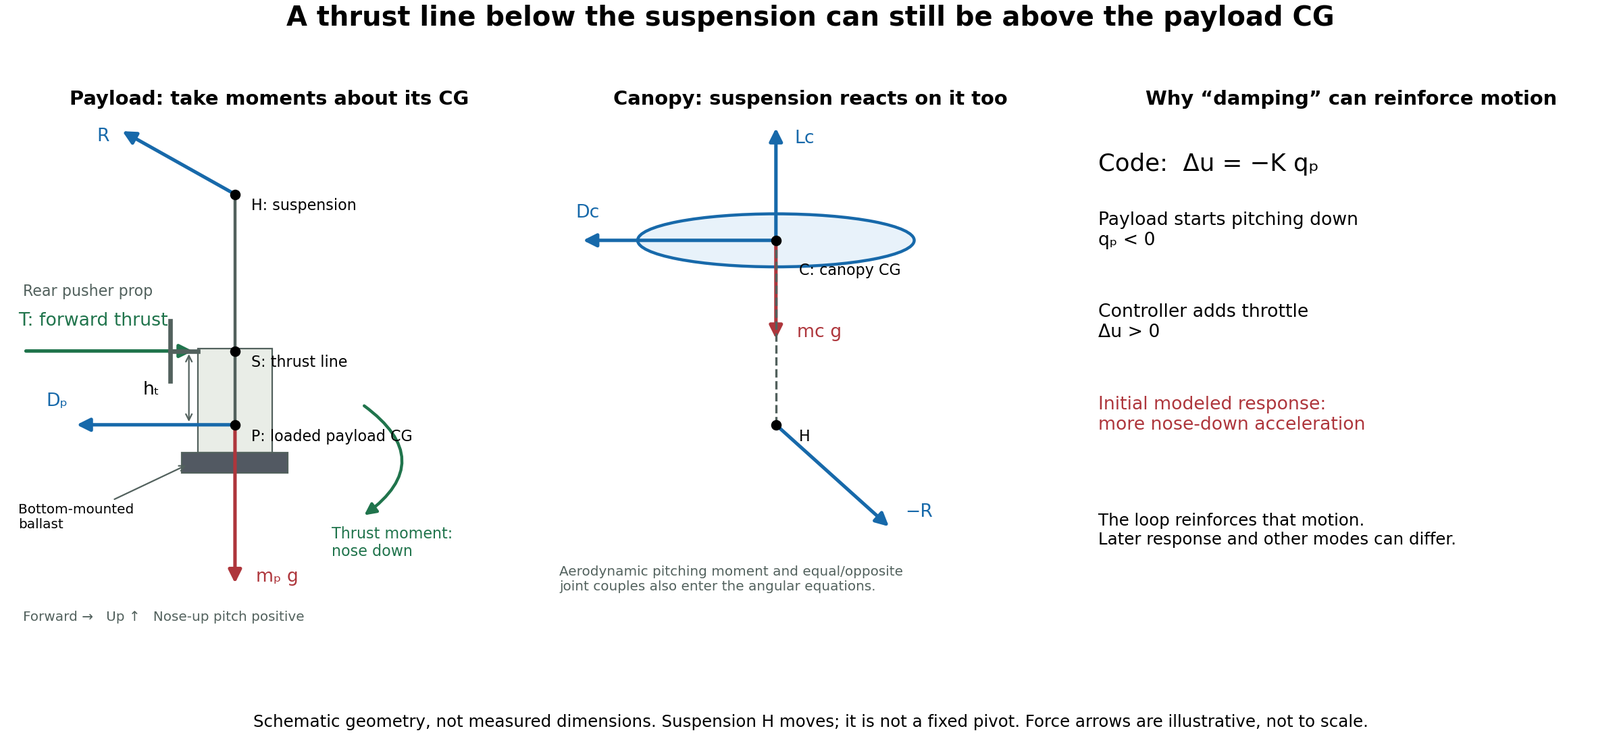
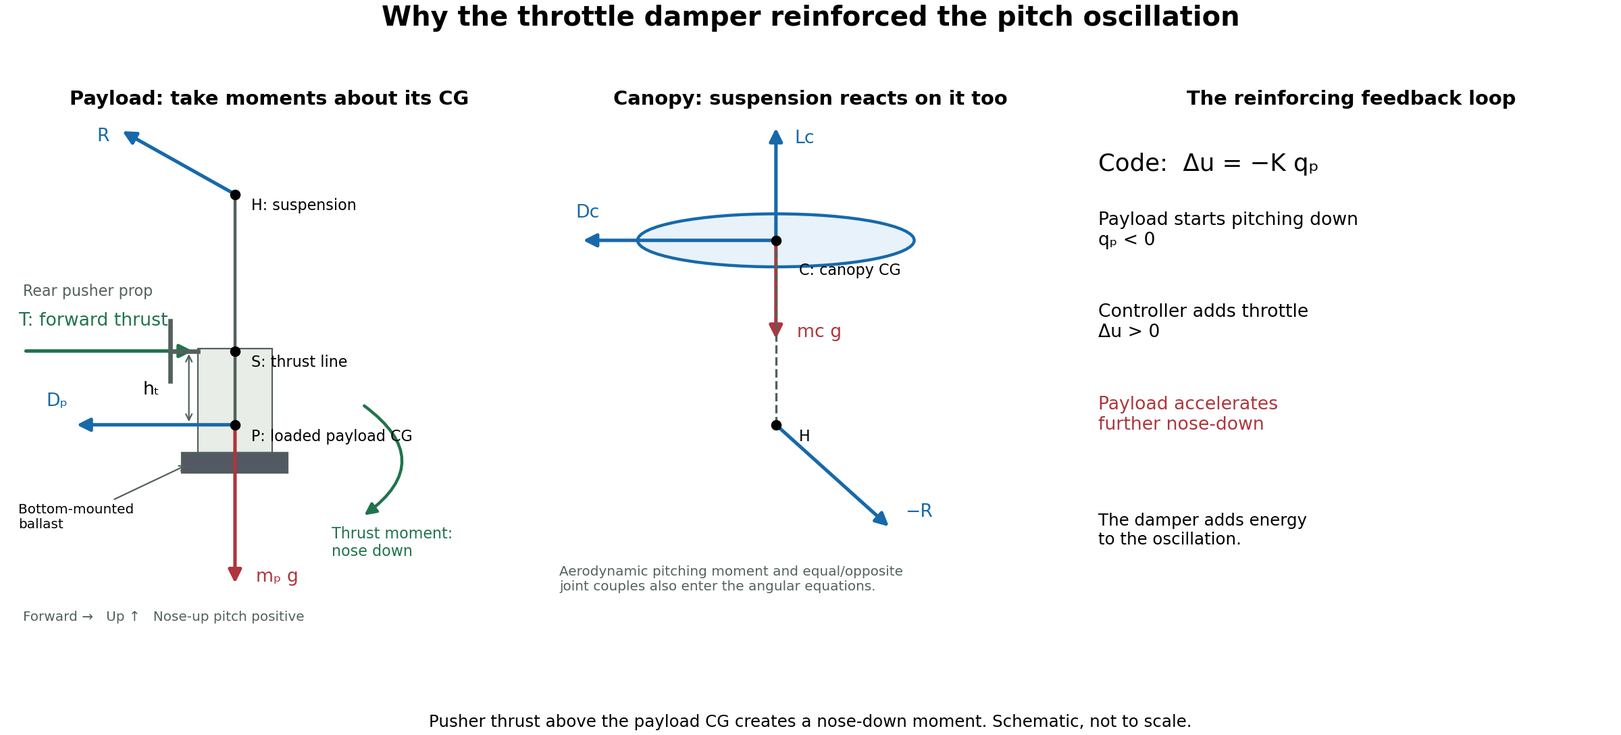
Tell the flight story directly and simplify figure captions

diff --git a/tools/pitch_damper_fbd.py b/tools/pitch_damper_fbd.py
@@ -20,8 +20,8 @@ a.add_patch(FancyArrowPatch((.55,.09),(.55,-.4),connectionstyle='arc3,rad=-.7',a
 a.text(-.92,-.85,'Forward →   Up ↑   Nose-up pitch positive',fontsize=9,color=gray)
 a=axs[1];a.set_title('Canopy: suspension reacts on it too',fontsize=13,fontweight='bold');a.add_patch(Ellipse((0,.8),1.2,.23,fc='#e8f2fa',ec=blue,lw=2));a.plot([0,0],[0,.8],ls='--',color=gray);a.plot([0,0],[0,.8],'ko');a.text(.1,.65,'C: canopy CG',fontsize=10);a.text(.1,-.07,'H',fontsize=10)
 arrow(a,(0,.8),(0,1.3),'Lc',blue,(.08,1.22));arrow(a,(0,.8),(-.85,.8),'Dc',blue,(-.87,.9));arrow(a,(0,.8),(0,.36),'mc g',red,(.09,.38));arrow(a,(0,0),(.5,-.45),'−R',blue,(.56,-.4));a.text(-.94,-.72,'Aerodynamic pitching moment and equal/opposite\njoint couples also enter the angular equations.',fontsize=9,color=gray)
-a=axs[2];a.set_title('Why “damping” can reinforce motion',fontsize=13,fontweight='bold');a.text(-.95,1.1,'Code:  Δu = −K qₚ',fontsize=16);a.text(-.95,.78,'Payload starts pitching down\nqₚ < 0',fontsize=12);a.text(-.95,.38,'Controller adds throttle\nΔu > 0',fontsize=12);a.text(-.95,-.02,'Initial modeled response:\nmore nose-down acceleration',fontsize=12,color=red);a.text(-.95,-.52,'The loop reinforces that motion.\nLater response and other modes can differ.',fontsize=11)
-fig.suptitle('A thrust line below the suspension can still be above the payload CG',fontsize=18,fontweight='bold')
-fig.supxlabel('Schematic geometry, not measured dimensions. Suspension H moves; it is not a fixed pivot. Force arrows are illustrative, not to scale.',fontsize=11)
+a=axs[2];a.set_title('The reinforcing feedback loop',fontsize=13,fontweight='bold');a.text(-.95,1.1,'Code:  Δu = −K qₚ',fontsize=16);a.text(-.95,.78,'Payload starts pitching down\nqₚ < 0',fontsize=12);a.text(-.95,.38,'Controller adds throttle\nΔu > 0',fontsize=12);a.text(-.95,-.02,'Payload accelerates\nfurther nose-down',fontsize=12,color=red);a.text(-.95,-.52,'The damper adds energy\nto the oscillation.',fontsize=11)
+fig.suptitle('Why the throttle damper reinforced the pitch oscillation',fontsize=18,fontweight='bold')
+fig.supxlabel('Pusher thrust above the payload CG creates a nose-down moment. Schematic, not to scale.',fontsize=11)
 fig.savefig(R/'pitch-damper-fbd-pusher.png',dpi=160);plt.close(fig)
 

diff --git a/docs/flight-testing.md b/docs/flight-testing.md
@@ -12,21 +12,21 @@ I initially tried running with the model before tossing it. That produced some v
 
 Watching Opale Paramodels videos helped me learn a better technique. Getting the canopy inflated and overhead before releasing the model made much more sense than trying to solve the whole launch by running faster. It took practice to make that sequence repeatable. My January 3 notebook specifically calls for a “multi-step walk” and a better hand position—useful contemporary detail behind my recollection of learning to launch.
 
-For a visual reference, Opale's [first-flight Backpack tutorial](https://www.youtube.com/watch?v=UEoCY5cZiRg) and [Ultra 3.5: Easy take off with Mike XL](https://www.youtube.com/watch?v=Y3AK1-yno0g) show the sort of preparation and launch technique I was learning. Both are from Opale's own channel; these are useful reference videos, rather than a claim that I have recovered the exact videos I watched that day. Their [tutorial playlist](https://www.youtube.com/playlist?list=PLQ6f0XQ2TFqdJHD9zXCt2_ikhzftwdELU) collects more of the setup material.
+Opale’s [first-flight Backpack tutorial](https://www.youtube.com/watch?v=UEoCY5cZiRg) and [Ultra 3.5 launch demonstration](https://www.youtube.com/watch?v=Y3AK1-yno0g) illustrate the technique. Their [tutorial playlist](https://www.youtube.com/playlist?list=PLQ6f0XQ2TFqdJHD9zXCt2_ikhzftwdELU) is a useful starting point for setup and launching.
 
-The V2 documentation and owner reports put that learning curve in context. The [manual](https://manuals.plus/m/cdab9dabe4a9759fe1f47d8eb9e2d012e56b482351e1acf6d5046c899579cf24) describes a smooth overhead launch and establishing an inflated wing before release. [Owners also report failed launches and broken props](https://www.rc-network.de/threads/hobbyking-paramotor-v2-luftschraube.12051592/). Those accounts resemble my experience, but they do not diagnose my individual attempts.
+The [V2 manual](https://manuals.plus/m/cdab9dabe4a9759fe1f47d8eb9e2d012e56b482351e1acf6d5046c899579cf24) also describes a smooth overhead launch with the canopy inflated before release. [Other owners’ launch stories](https://www.rc-network.de/threads/hobbyking-paramotor-v2-luftschraube.12051592/) made the learning curve feel familiar.
 
 ![Micro-AGU payload and folded HobbyKing V2 canopy](assets/micro-agu/build-canopy.jpg)
 
-*The actual payload and canopy. This is a build photograph, not a photograph of either flight-test session.*
+*The payload and folded HobbyKing V2 canopy.*
 
 ## Hood River: the model was too light
 
 My first flight in Hood River was much too lightly loaded. Adding weight made it noticeably more stable. That was a practical lesson before it was a control-system lesson: I needed a model that flew reasonably well before asking an autopilot to improve it.
 
-Opale's [own FAQ](https://www.opale-paramodels.com/gb/content/11-faq-rc-paraglider) also discusses adding ballast when a model is too light to make progress into the wind. My observation here is narrower: the added weight improved the behavior of my particular model in those conditions. The ballast went on the **bottom of the suspended payload**. That increased wing loading, lowered the payload CG, and changed its pitch inertia. The logs do not record those physical changes, so they cannot separate their contributions to the improvement. This was not an increase in canopy mass.
+The ballast went on the **bottom of the payload**, increasing wing loading, lowering its CG, and changing its pitch inertia. The model flew noticeably better with the added weight. Opale’s [FAQ](https://www.opale-paramodels.com/gb/content/11-faq-rc-paraglider) discusses the same practical benefit of ballast for wind penetration.
 
-The notebook adds another contributor: I thought the brake lines were too tight. I recorded a persistent nose-up attitude and disappointing performance, with about 0.5 m/s climb and a minimum sink figure of 0.962 m/s, both suspected to be affected by brake trim. Those are contemporary observations, not a newly validated performance benchmark. There was also an electrical problem: I had omitted the electrolytic capacitor on the Matek avionics stack power input. It caused erroneous current readings and false throttle power limiting; I corrected it before Trout Lake. That repair history changes the interpretation of the early performance figures: loading, brake trim, and unintended power limiting were all involved. The stock V2 setup also calls for careful brake neutral and one-sided steering travel; [JohnVHRC demonstrates the mixing](https://www.youtube.com/watch?v=OqNvJ_UtPqc&t=480s). Its stock line dimensions are not directly transferable to my custom actuators. A [later WestHobbiesRC setup walkthrough](https://www.youtube.com/watch?v=HRO3tUq2NUA&t=575s) reinforces the same point; it was published after these flights and is supporting research, not a video I used at the time.
+My brake lines also needed loosening. The model flew nose-up and performance was disappointing: my notes recorded about 0.5 m/s climb and 0.96 m/s minimum sink. On top of that, I had omitted an electrolytic capacitor on the Matek stack power input. Bad current readings triggered false throttle power limiting. I fixed the capacitor before Trout Lake. Between loading, brake trim, and power limiting, there was plenty to sort out before tuning the controller.
 
 ![January 3 notes on launch technique, brake trim, weight and hardware](assets/micro-agu/january-flight-notes.png)
 
@@ -36,66 +36,55 @@ The sustained January 3 flight gives us a useful early baseline. It spent most o
 
 ![Successful Hood River flight: relative height, payload pitch and throttle over roughly thirteen minutes](assets/flight-testing/hood-river.png)
 
-*January 3, 2026. This is an airborne portion of the onboard log, not a launch montage. The height is relative to the estimator's home reference, not clearance above the terrain. The plot does not establish the timing of the ballast change.*
+*Hood River, January 3: height above home, payload pitch, and throttle during the sustained flight. Green marks AUTO mode.*
 
 ## Trout Lake: another kilogram, and autonomous missions
 
-At Trout Lake we added another kilogram of lead to the bottom of the payload. With the heavier configuration, we were able to fly successful autonomous missions. The February 15 log contains about 54.5 minutes of selected airborne data, including extended AUTO, LOITER and GUIDED operation.
+I remember a short attempt or failed launch at Trout Lake before adding another kilogram of lead to the bottom of the payload. With that weight aboard, the next flight lasted **54.5 minutes continuously on one charge**, including AUTO, LOITER, and GUIDED operation. I landed because I had finished testing.
 
 That did not mean the controller was finished. The early part of the flight involved a lot of tuning and some substantial oscillation. Later sections became much quieter, and the repeated waypoint messages show the aircraft making progress through the mission.
 
 ![Trout Lake flight showing height, pitch and throttle, with AUTO intervals shaded](assets/flight-testing/trout-lake.png)
 
-*February 15, 2026. Green shading marks AUTO mode. The changes in behavior within this flight include controller tuning and different maneuvers; they are not a controlled comparison of different weights.*
+*Trout Lake, February 15: tuning early in the flight, followed by quieter autonomous operation. Green marks AUTO mode.*
 
 One of the satisfying results is the later continuous AUTO segment. It lasts more than ten minutes. The recorded path shows repeated circuits, while the height and throttle traces show the controller maintaining the mission rather than simply passing through a mode switch.
 
 ![More than ten minutes of AUTO flight: relative ground track, actual and demanded height, and throttle](assets/flight-testing/trout-lake-auto.png)
 
-*The ground track is measured relative to the start of this segment. It is not a commanded-path error plot. This is real onboard data, not a simulated mission.*
+*Ten minutes of AUTO: repeated circuits, height tracking, and throttle. The track origin is the start of this segment.*
 
 ## What endurance did it actually achieve?
 
 The battery choice started with a 6S Li-ion pack I already owned from GetFPV. I bought another and connected the packs in parallel because the aircraft needed weight. The motor was a cheap Amazon purchase with a roughly suitable KV, and prop diameter was constrained by the payload and packability. The [design post](micro-agu-design.md#a-battery-i-already-owned-and-propulsion-that-fit) explains that tradeoff. The result was useful endurance without a systematically optimized propulsion installation.
 
-| Selected flight interval | Duration | Logged charge used | Logged energy used | Average battery power |
+| Flight / segment | Duration | Charge used | Energy used | Average battery power |
 |---|---:|---:|---:|---:|
 | Hood River, January 3 | 12.92 min | Invalid | Invalid | Invalid |
 | Trout Lake, February 15 | 54.53 min | 3.923 Ah | 84.97 Wh | 93.5 W |
 | Late continuous AUTO segment, within that Trout Lake flight | 10.38 min | 0.690 Ah | 13.94 Wh | 80.6 W |
 
-The AUTO row is a subset, not an additional flight. Mean current was 4.32 A over the full selected Trout Lake airborne interval and 3.99 A during the late AUTO segment. That segment ended about 10 m higher than it began, so its lower average power was not simply the result of a net descent. Different maneuvers, tuning and battery voltage prevent treating it as a controlled efficiency improvement.
+During the full flight, mean current was 4.32 A. The late AUTO segment averaged 3.99 A and 80.6 W, finishing about 10 m higher than it started.
 
 ![Trout Lake battery voltage, current and cumulative energy over the selected airborne interval](assets/flight-testing/trout-lake-endurance.png)
 
-*BAT instance 0; 202.81–3474.77 seconds after boot. Green marks the 2738.09–3360.73 s AUTO segment. This is battery-side electrical energy, not mechanical propulsive power. A brief current spike before the airborne window is excluded.*
+*Trout Lake: battery voltage, current, and energy used over 54.5 minutes. Green highlights the late AUTO segment.*
 
-Hood River cannot provide an energy comparison. Its monitor claims 11.77 Ah and 270 Wh in the selected 12.92 minutes—almost twice the configured 6 Ah capacity. The recorded power exceeds the configured `BATT_WATT_MAX = 2400` for approximately 134 seconds of that interval. The inspected ArduPlane watt-limiter code uses measured voltage times current to detect overpower and reduce allowed throttle, consistent with my account of false limiting. These are corrupt electrical measurements, not actual power consumption; the threshold duration is not a measurement of exactly how long or how severely throttle was limited.
+The missing capacitor made Hood River’s energy figures unusable: the monitor reported 11.77 Ah and 270 Wh in 12.9 minutes from a 6 Ah battery. Its false power readings exceeded the configured 2,400 W limit for about 134 seconds. That explains why a current-sensing problem could also hurt flight performance—the watt limiter responds by reducing available throttle.
 
-The missing input capacitor and its repair are established by my build history. Both logs retain the same recorded current scale (`BATT_AMP_PERVLT` about 66.7) and zero offset, so there is no logged scale adjustment explaining the change. Trout Lake's current and energy are plausible after the repair, but still lack independent calibration against a charger or external meter. Integrating the logged current and power reproduces the onboard totals; that checks the analysis, not the sensor's accuracy.
+After fixing the capacitor, the capacity estimates were accurate. Trout Lake used **3.92 Ah out of 6 Ah**, leaving about **2.08 Ah, or 35%**, when I finished flying.
 
-The supported endurance claim is **54.5 minutes of demonstrated airborne operation**, not maximum endurance. At the end of the record the monitor reports about 3.934 Ah consumed and 34% remaining against its configured 6 Ah capacity. That percentage is a capacity-counter estimate, not a measured reserve. Pack voltage was about 24.46 V at the beginning of logging and 20.12 V near the end, with a minimum of 18.94 V under load during flight. These are pack voltages; individual cell voltages were not recorded. A low-battery message also appears about 34.5 minutes into the selected flight.
+This was a **54.5-minute test flight with reserve**, rather than a flight to exhaustion. At the same average current, 6 Ah corresponds to about **83 minutes** of total flight time. That is an extrapolation; the flight itself demonstrated nearly an hour and ended when I was done testing.
 
-Dividing nominal capacity by average current would suggest about 83 minutes, but it assumes all configured capacity is usable and the current calibration and operating conditions hold. The data do not validate those assumptions or establish why the flight ended. I therefore would not claim an 80–90 minute endurance or a further half-hour of reserve from this flight. A measured recharge and an independently checked current scale would make the next endurance comparison much stronger.
+Pack voltage fell from 24.46 V near the start of logging to 20.12 V near the end. The useful result is how much flight time came from a battery I already owned, a second pack added for weight, and inexpensive propulsion sized to fit the payload.
 
-The [endurance evidence](assets/flight-testing/endurance-evidence.json) records the windows, integrations, cumulative-counter differences and limitations. The selected airborne intervals reuse the same boundaries as the earlier flight figures.
-
-## Configuration context for the plots
-
-| Figure / interval | What the logs establish | Physical configuration from my recollection |
-|---|---|---|
-| January 3 overview | Mostly MANUAL and FBWA, with short CRUISE and LOITER trials; no single damper setting is asserted for the whole plot | Hood River was initially too light; ballast helped, but the change is not timestamped in the log |
-| February 15 overview | AUTO intervals are shaded; parameters changed during this flight, so it is not one fixed controller configuration | Trout Lake: another 1 kg of lead at the bottom of the payload; total loaded mass was not recorded |
-| February 15 AUTO detail | 2738.09–3360.73 s after boot, 10.38 minutes continuously in AUTO | Same day's configuration; no independent measurement of CG or inertia |
-| February 15 damper comparison | CRUISE; throttle P and I both zero; damper 0.10 before 655.79 s and zero afterward | No ballast change is documented across these short comparison windows |
-
-The February 15 log reports firmware `3a2da6cf`; the parameter names indicate that this does not uniquely identify the compiled source, as discussed below. The AUTO figure is evidence of sustained mission operation, not a controlled damper comparison. The [evidence file](assets/flight-testing/flight-evidence.json) preserves the exact comparison windows and source hashes.
+The [endurance data](assets/flight-testing/endurance-evidence.json) contains the measurement windows and calculations.
 
 ## The damper that could make things worse
 
 I had added a pitch-rate damper to throttle. My initial intuition was that more throttle would pitch the model up, so adding throttle during a nose-down rotation should oppose that motion.
 
-The inspected controller implementations use the equivalent of:
+The throttle damper used:
 
 ```cpp
 throttle_correction = -pitch_damping_gain * filtered_payload_pitch_rate;
@@ -107,13 +96,13 @@ The articulated model showed why that assumption could fail. The thrust line is 
 
 ![Free-body diagram of the payload and canopy, showing thrust above the payload CG and the reinforcing feedback sequence](assets/flight-testing/pitch-damper-fbd-pusher.png)
 
-*The rear-mounted pusher prop is shown pushing forward into the payload; this arrow is thrust on the aircraft, not the rearward airflow. Its line of action remains above the modeled payload CG, so the direct moment is still nose-down. The diagram shows schematic geometry, not measured dimensions. The ballast location is confirmed from the build history; the loaded CG and thrust offset have not yet been measured. The suspension forces are equal and opposite. The labeled thrust offset is the moment arm about the loaded payload CG; the suspension reaction also has a moment arm about that CG. Canopy aerodynamic moment and any joint couple also belong in the complete angular equations.*
+*The pusher thrust acts above the payload CG, creating a nose-down moment. The canopy and payload react through the suspension. Schematic, not to scale.*
 
-For the modeled initial response, the feedback can run in the wrong direction:
+The later analysis explained the reinforcing loop:
 
 **Payload pitches down → controller adds throttle → payload pitches down harder.**
 
-It is tempting to summarize that as inertia beating canopy drag. The more precise explanation is that thrust, the suspension reaction, and the inertias of the two bodies together determine the response. Bottom-mounted ballast shifts the payload CG downward and changes its inertia, making the loaded geometry important. This does not by itself prove that inertia “beat” canopy drag. The direct thrust moment is nose-down in the modeled geometry; canopy forces and the moving suspension affect what happens next. The initial payload motion and the eventual climb response do not have to point the same way.
+I did not work this out at the field. Fortunately, I decided to disable the damper while testing, and the aircraft immediately became quieter. The logs and simulation later explained why: I had designed the feedback around the wrong initial pitch response. A throttle increase can rotate the payload nose-down even while the aircraft’s longer-term response is to climb. The moving suspension and the canopy’s aerodynamic forces determine how that motion develops.
 
 The flight data contains a particularly useful comparison. In CRUISE, I had already set the throttle P and I gains to zero. At 655.79 seconds after boot, I set the pitch damper to zero too. In the tightly bounded windows below, that was the only control setting changed.
 
@@ -126,28 +115,20 @@ The flight data contains a particularly useful comparison. In CRUISE, I had alre
 
 The fast oscillation reduced sharply. Later in the same flight, reintroducing the damper at 0.05 coincided with a stronger component around 1.5 Hz; reducing it to 0.02 brought the rate RMS back down. Those observations support the self-excitation concern.
 
-They do not prove that reversing one gain would fix the whole system. The response depends on frequency, motor dynamics, and the canopy–payload coupling. The earlier simulation work also found relative-rate feedback more useful than payload-only feedback. That is what led me toward the [longitudinal controller and observer investigation](longitudinal-observer.md).
-
-## What the code and logs can actually establish
-
-There are a few details worth preserving rather than smoothing out of the story.
-
-The February 15 firmware reports Git hash `3a2da6cf`, but its logged parameter naming matches later source changes. That means the exact compiled source is not established by the version string alone. The inspected implementations agree on the damper's negative pitch-rate feedback, but I cannot attribute every observed behavior to the clean tree at the reported hash.
-
-The filter code also matters. In the inspected versions, a zero pitch-rate cutoff zeros the damper signal rather than passing through unfiltered gyro data. Positive cutoff changes are copied into the filter on reset, and the 50 Hz filter update uses the throttle loop's timestep. These are additional reasons to distinguish a logged setting from the filter response that was actually running.
-
-Finally, one February 22 telemetry file begins on the real Matek controller and later switches to SITL. Its long, very smooth flight at about 60 m is simulation. I excluded that portion from the real-flight story. The figures here come from the successful January 3 and February 15 onboard logs.
+That experience led to the [longitudinal controller and observer investigation](longitudinal-observer.md). The next step is to control the relative canopy–payload motion, accounting for motor response and the different oscillation modes.
 
 ## Bringing the simulation back to the aircraft
 
-The real flights give the simulation specific behavior to reproduce. Quieter stretches repeatedly contain a slow pitch component around 0.32–0.37 Hz. The stronger damper-driven motion lives at a faster timescale. The archived articulated model has a qualitatively similar slow mode, but replaying recorded throttle through its linearization did not reproduce the measured pitch rate particularly well.
+The flights give the simulation clear targets: a slow pitch mode around 0.32–0.37 Hz and a faster oscillation excited by the damper. The articulated model captures a similar slow mode, but still needs calibration to reproduce the recorded response to throttle.
 
-That is a useful result: the simulation needs calibration, and the ballast changes mean the flights should not all be treated as one unchanged aircraft. We also have no measured canopy angle or configured pitot in these logs, so they cannot validate an absolute canopy-angle estimate or a stall margin.
+Loaded mass, CG, and inertia are the next inputs to measure. The logs record payload motion; measuring canopy motion as well would help develop the relative-pitch controller.
 
 The progression was learning to launch, finding a weight that flew well, getting autonomous missions working, and then discovering that a plausible damping rule could reinforce the motion it was meant to suppress. The next controller should earn its bandwidth by reproducing those observations first.
 
-## Data behind the figures
+## Data and methods
 
-I reviewed six onboard BIN logs, 54 timestamped telemetry logs and their 54 raw companions. Companions are not additional flights. Launch technique, the HobbyKing V2 canopy, and ballast placement are identified from my recollections; the January 3 notebook adds contemporary observations about launch, brake trim, and hardware. Modes, tuning changes and numerical comparisons come from the logs.
+The figures use the January 3 and February 15 onboard logs. Height is relative to home, and the ground track is relative to the plotted segment’s starting point. Energy is battery-side electrical energy, calculated from current and voltage and checked against the onboard counters. The AUTO endurance row is part of the full Trout Lake flight.
 
-The [curated evidence file](assets/flight-testing/flight-evidence.json) records source-log SHA-256 hashes, comparison windows and metrics. The [Hood River](assets/flight-testing/hood-river-plot-data.csv.gz) and [Trout Lake](assets/flight-testing/trout-lake-plot-data.csv.gz) overview series are available as compressed CSVs. The exported overview series are sampled at 5 Hz; the pitch-rate comparisons use the 25 Hz aligned analysis. Raw flight logs remain outside the public repository.
+The force diagram explains the mechanism identified afterward in the articulated model; loaded CG and inertia remain to be measured. The February 15 firmware reports `3a2da6cf`, while its parameter names match later source changes. The inspected implementations agree on the damper sign, but the version string does not identify the exact compiled tree. Filter behavior also matters: the inspected code zeros the signal at zero cutoff, applies positive cutoff changes on reset, and updates at 50 Hz using the throttle-loop timestep.
+
+I reviewed six onboard logs and 54 telemetry logs with their raw companions. A February 22 telemetry recording switches from hardware to SITL; that simulated section is excluded here. The [flight evidence](assets/flight-testing/flight-evidence.json) records source hashes and comparison windows. [Hood River](assets/flight-testing/hood-river-plot-data.csv.gz) and [Trout Lake](assets/flight-testing/trout-lake-plot-data.csv.gz) overview data are sampled at 5 Hz; pitch-rate comparisons use the 25 Hz analysis.

diff --git a/docs/micro-agu-design.md b/docs/micro-agu-design.md
@@ -10,33 +10,33 @@ That became **micro-AGU—Micro Aerial Guidance Unit**: an opportunity to explor
 
 ![The assembled micro-AGU payload, with its printed frame, brake actuators and propeller guard](assets/micro-agu/build-assembled.jpg)
 
-*The actual build. The lower enclosure is open in this photograph; it does not document a loaded flight configuration.*
+*The assembled payload, with its battery compartment open.*
 
-The powered paraglider is the current experimental platform. It gives me a way to fly the guidance hardware, collect data, and work through the interaction between the canopy, payload, and controller. Successful powered missions are a useful milestone toward that goal; they do not yet establish the performance of an unpowered precision-delivery system.
+The powered paraglider gives me a repeatable way to fly the guidance hardware, collect data, and study the interaction between the canopy, payload, and controller. The longer-term goal is a small autonomous guided parafoil.
 
 This post brings together the physical design, my original notebook, and what the early flights taught me. The [flight-test story](flight-testing.md) covers the launches, ballast changes, autonomous missions, and pitch-damper trouble in more detail.
 
 ## A commercial canopy and a custom payload
 
-The canopy is a **HobbyKing V2**, a 2.4 m single-skin wing. [HobbyKing describes](https://hobbyking.com/en_us/h-king-paramotor-v2-w-led-light-bar-2400mm-pnf.html) a revised wing and stronger, smoother lines, with testing and feedback from JohnVHRC. The manufacturer claims easier launching and more stable flight than V1. Those documented changes help explain why V2 was worth trying; my assessment of V1 is my own, not a controlled comparison.
+The canopy is a **HobbyKing V2**, a 2.4 m single-skin wing. [HobbyKing redesigned the wing and improved the suspension lines](https://hobbyking.com/en_us/h-king-paramotor-v2-w-led-light-bar-2400mm-pnf.html), with testing and feedback from JohnVHRC. Those changes made V2 worth trying.
 
-The affordability mattered more than having a premium wing. [Opale](https://www.opale-paramodels.com/gb/rc-paramotor-paraglider-wing/1739-ultra-35.html) and [Hacker](https://www.hacker-motor-shop.com/Para-RC/Para-RC-gliders.htm?a=catalog&p=7836&shop=hacker_e) offer wings across different sizes and performance classes. The ones I had considered were beyond my budget for this experiment. Current catalog prices are not a record of what I paid or an equivalent-performance comparison.
+The affordability mattered more than having a premium wing. The [Opale](https://www.opale-paramodels.com/gb/rc-paramotor-paraglider-wing/1739-ultra-35.html) and [Hacker](https://www.hacker-motor-shop.com/Para-RC/Para-RC-gliders.htm?a=catalog&p=7836&shop=hacker_e) canopies I had considered cost more than I wanted to spend on the experiment.
 
 ![The custom payload resting on the folded canopy with suspension lines visible](assets/micro-agu/build-canopy.jpg)
 
 *The commercial canopy and the custom payload together. Line routing and brake neutral are part of the integration work.*
 
-HobbyKing specifies a 1.6–2.0 kg flying weight for its complete stock paramotor, with heavier loading for windier conditions. That is useful context for my ballast experiments, not a validated weight target for this custom vehicle. The custom work is concentrated in the suspended payload: a compact package containing the avionics, brake actuators, battery enclosure, motor, propeller guard, and landing structure.
+HobbyKing recommends 1.6–2.0 kg for its stock paramotor, with heavier loading for windier conditions. My custom payload packages the avionics, brake actuators, batteries, motor, propeller guard, and landing structure.
 
 ![Saved SolidWorks preview of the micro-AGU payload assembly](assets/micro-agu/assembly.png)
 
-*The saved preview from `microAGU.SLDASM`. This is the actual CAD assembly, not a reconstruction from the flight logs. It does not show the canopy, suspension lines, or the later field-added ballast.*
+*The payload assembly in SolidWorks.*
 
 The assembly divides the hardware into recognizable subassemblies. A central core contains the avionics and paired servo mechanisms. A separate battery enclosure sits below it. The spreader structure, motor and shroud, and skid complete the package. That arrangement makes the aircraft's mechanical layout part of the control problem: thrust, suspension forces, and the mass of the lower payload act at different places.
 
 ![Six saved CAD previews: avionics, spreader, battery enclosure, shroud, skid, and motor](assets/micro-agu/cad-subassemblies.png)
 
-*Individual saved previews are arranged for comparison and are not shown at a common scale.*
+*Avionics, spreader, battery enclosure, shroud, skid, and motor subassemblies.*
 
 The component tree fills in details that are difficult to see in the overall preview:
 
@@ -48,7 +48,7 @@ The component tree fills in details that are difficult to see in the overall pre
 | Battery packaging | Two instances of `Nav6S300Lion` in `BatteryBoxAssm`, plus two battery gates in the main assembly |
 | Structure | Spreader assembly, core block, top block, battery enclosure, propeller shroud, and skid |
 
-Those are identities in the saved CAD, rather than a verified bill of materials for every flight. The two battery-model instances alone do not establish their wiring, but my build history does: I connected two 6S Li-ion packs in parallel. Exact installed capacity and the configuration on each flight still need to be distinguished from CAD names and parameter settings. The `AutoPilot` model name alone does not identify the board; the flight logs provide the evidence for the Matek H743 controller used in the tests.
+The CAD and build photographs show the configuration flown at Trout Lake. The avionics use a Matek H743 flight controller, and the two 6S Li-ion packs are connected in parallel for 6 Ah total capacity.
 
 ![The compact core held in one hand, with motor and side-mounted brake mechanisms](assets/micro-agu/build-core.jpg)
 
@@ -56,15 +56,15 @@ Those are identities in the saved CAD, rather than a verified bill of materials 
 
 ![Open core showing the flight electronics, microSD card, wiring and power connections](assets/micro-agu/build-electronics.jpg)
 
-*The assembled electronics. The photos document packaging; they do not establish the wiring or component configuration of every flight. The print material has not been identified from the photographs.*
+*Inside the core: flight controller, power electronics, and brake-servo wiring.*
 
 ## A battery I already owned, and propulsion that fit
 
 I already had a 6S Li-ion pack bought from GetFPV for an earlier project, so I built around it. When the aircraft needed more weight, I bought a second pack and connected them in parallel: 6S2P at the pack level, keeping the voltage and adding capacity. That let some of the required mass carry useful energy, although the later lead ballast was still necessary.
 
-The motor was an inexpensive Amazon purchase with a KV close enough for the intended setup. Propeller diameter was a hard packaging constraint, set by the payload design and my desire to keep it packable. This was a practical integration of available parts, not an optimized motor-and-propeller endurance design. The CAD lists an APC 9x6 CW propeller model; that is not independent confirmation of the prop flown on each date.
+The motor was an inexpensive Amazon purchase with a KV close enough for the job. Propeller diameter was a hard constraint imposed by the payload design and my desire to keep it packable. The build uses the 3115 motor and APC 9×6 CW propeller shown in the CAD. I chose a propulsion system that fit the project rather than designing the whole aircraft around maximum endurance.
 
-The flight logs configure 6,000 mAh battery capacity. At an assumed 3.6–3.7 V nominal per cell, a 6S 6 Ah battery represents roughly 130–133 Wh of nominal energy, not a measured usable-energy budget. The [endurance analysis](flight-testing.md#what-endurance-did-it-actually-achieve) records 54.5 minutes airborne at Trout Lake, with approximately 85 Wh measured by the onboard monitor.
+The two packs provide **6 Ah total at 6S**, roughly 130 Wh of nominal energy. At Trout Lake they powered a continuous **54.5-minute flight**, using about **85 Wh**. I landed because I had finished testing, with capacity still available. The [flight post](flight-testing.md#what-endurance-did-it-actually-achieve) breaks down the results.
 
 ## Two brake channels, and an airplane autopilot to adapt
 
@@ -72,15 +72,15 @@ The December 30, 2025 implementation checklist starts with the mixer: roll comma
 
 ![Original December 30 implementation and flight-test checklist](assets/micro-agu/implementation-notes.png)
 
-*My notebook, page 1. These are planned tasks, not a record that every item was completed.*
+*The December 30 implementation and flight-test checklist.*
 
 That checklist captures the adaptation I was trying to make. ArduPilot supplied an existing navigation and flight-control framework, but the parafoil's controls needed different interpretation. The brake mixer was one piece. The relation between throttle and payload pitch was another, and eventually the source of a much less intuitive problem.
 
-The [V2 manual](https://manuals.plus/m/cdab9dabe4a9759fe1f47d8eb9e2d012e56b482351e1acf6d5046c899579cf24) makes the intended brake behavior concrete: turning pulls one brake, while the transmitter's up-elevator command pulls both. Its 81.5 cm brake-line measurement is tied to the stock control arms and cannot simply be copied onto my actuator geometry. [JohnVHRC's setup video](https://www.youtube.com/watch?v=OqNvJ_UtPqc&t=480s) explains the mixing, followed by line measurement around 12–15 minutes. The transcript is useful alongside the manual; it is not a substitute for checking actual neutral and travel.
+The [V2 manual](https://manuals.plus/m/cdab9dabe4a9759fe1f47d8eb9e2d012e56b482351e1acf6d5046c899579cf24) describes one brake for turning and both brakes for the up-elevator command. [JohnVHRC demonstrates the mixing](https://www.youtube.com/watch?v=OqNvJ_UtPqc&t=480s) and line setup. I needed to establish the neutral position and travel for my own brake mechanisms.
 
 The same page lays out a progression through inflation and glide tests, range and failsafe checks, manual flight, FBWA/FBWB, and then LOITER and AUTO. Launch, pattern work, climb/glide, and turns were all on the list. The notebook's January 30 control-law sketches return to the lateral loop, comparing the standard ArduPlane structure with the paraglider approach. These notes connect the physical build to the later [turn-control and simulation work](paraglider.md).
 
-Much of the 323-page notebook is collected research rather than my own design record. It includes work on small paramotor guidance, powered-paraglider longitudinal dynamics, and autonomous paramotor development. Those papers were background for the investigation; their photographs, dimensions, and performance results describe other aircraft.
+My notebook also collects research on small paramotor guidance, longitudinal dynamics, and autonomous flight alongside my own sketches and test notes.
 
 ## What the first flight sent back to the design
 
@@ -88,9 +88,9 @@ The January 3 flight notes are more specific than my memory of a difficult launc
 
 ![Original January 3 flight notes recording launch, brake trim, weight, and hardware concerns](assets/micro-agu/january-flight-notes.png)
 
-*My notebook, page 185. The climb and sink figures are contemporary notes from my log review, not a new performance characterization.*
+*January 3 flight notes: launch technique, brake trim, weight, and hardware fixes.*
 
-I recorded about 0.5 m/s climb and a minimum sink figure of 0.962 m/s, with brake trim explicitly suspected of influencing both. The page also flags an apparently incorrect current reading and Yaapu crashes. I subsequently traced the current problem and false throttle power limiting to a missing electrolytic capacitor on the power input of the Matek avionics stack, and fixed it before Trout Lake. That diagnosis comes from my repair history; the logs independently show implausible current consumption. That makes these notes useful design feedback, but a poor basis for claiming a clean endurance or aerodynamic benchmark.
+I recorded about 0.5 m/s climb and 0.96 m/s minimum sink, and suspected the tight brake lines were hurting performance. There was an electrical problem too: I had left out an electrolytic capacitor on the Matek stack power input. The resulting bad current readings triggered false throttle power limiting. I fixed that before Trout Lake.
 
 The hardware implications were direct. The shroud and skid had to work during awkward handling and landings. The brake mechanism needed usable travel and correct neutral trim. The instrumentation needed to be trustworthy before its numbers could support a performance claim. Autonomous flight did not remove those requirements.
 
@@ -102,7 +102,7 @@ The ballast was attached to the **bottom of the suspended payload**, not to the 
 
 The bottom-mounted ballast makes the thrust-line question especially relevant. In the articulated model, thrust above the payload CG produces a direct nose-down moment, even though the motor sits below the suspension. A pitch-rate damper designed around the opposite initial response can reinforce the motion. The [flight-test post](flight-testing.md) shows the force diagram and the log segment where disabling the damper sharply reduced the oscillation.
 
-The CAD previews establish the packaging, and my field recollection establishes where the ballast went. They do not yet supply a measured loaded CG or inertia tensor. The next useful measurements are the mass and CG of each flown configuration, the thrust-line offset, suspension geometry, brake travel and neutral setting, and the canopy's actual rigging. Those are the inputs needed to turn a plausible model into one that predicts this aircraft.
+The next simulation work needs the loaded mass, CG, inertia, suspension geometry, and brake settings. Measuring those will help the model reproduce the motion recorded in flight.
 
 ## What better performance will mean
 
@@ -110,6 +110,6 @@ The motivation remains the same as when I started: see what modern open-source a
 
 A useful comparison needs a recorded configuration and repeatable conditions. Guidance accuracy, wind handling, trim, and the canopy–payload motion all belong in that evaluation. For now, the design, flight data, and [longitudinal-controller investigation](longitudinal-observer.md) give me a way to identify what to measure and what to improve next.
 
-## Sources and limits
+## Design record
 
-This account uses my recollections, the original notes on pages 1, 185, and 323 of `Paraglider.pdf`, and the saved SolidWorks assembly and part files in the micro-AGU project. The [design evidence file](assets/micro-agu/design-evidence.json) records source hashes and the recovered assembly structure. Saved previews and component metadata were extracted locally using [SWFormat](https://github.com/KenM76/swformat); the native assembly was not rebuilt and its mass properties were not validated. The notebook's collected third-party papers are not reproduced here.
+The design record includes my notes on pages 1, 185, and 323 of `Paraglider.pdf`, the SolidWorks files, build photographs, and flight logs. The [design evidence](assets/micro-agu/design-evidence.json) records the assembly structure and source hashes. CAD previews were extracted with [SWFormat](https://github.com/KenM76/swformat).
